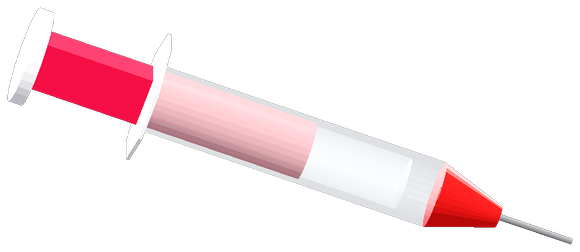
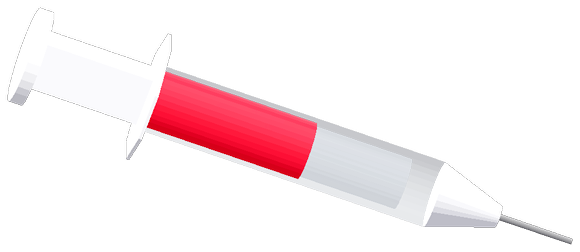
ajustes e novo item magia

Changed region(s): [[0.031, 0.1389, 0.869, 0.9167]]

diff --git a/tools/godot/nice/gerar_casa_nice.py b/tools/godot/nice/gerar_casa_nice.py
@@ -632,6 +632,12 @@ def interior():
               'PICKUP_SERINGA', 'PICKUP_AMMO_AGAIN',
               'res://assets/3d_model/objects/seringa_adrenalina/seringa_adrenalina.glb', _giro((0, 0, 0), 0.0, 1.3))
 
+    # A seringa de MAGIA (liquido roxo), na mesa da cozinha, do outro lado da
+    # bala: e' o unico jeito de a magia voltar.
+    c.pegavel('seringa_magia_cozinha', 'seringa_magia', 1, (3.12, 0.83, -4.74), -0.35, 'PROMPT_TAKE_SYRINGE',
+              'PICKUP_SERINGA_MAGIA', 'PICKUP_AMMO_AGAIN',
+              'res://assets/3d_model/objects/seringa_magia/seringa_magia.glb', _giro((0, 0, 0), 0.0, 1.3))
+
     # ---------------------------------------------------------------- luz
     # Sete luzes ao todo (o renderer mobile aguenta 8 por malha): a lamparina
     # da sala, a lampada fria da cozinha, a da entrada, a do criado-mudo, e no
